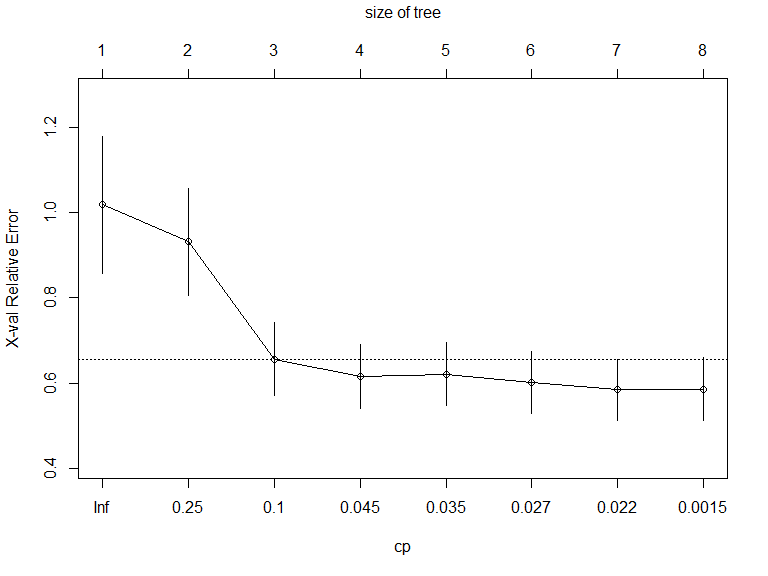
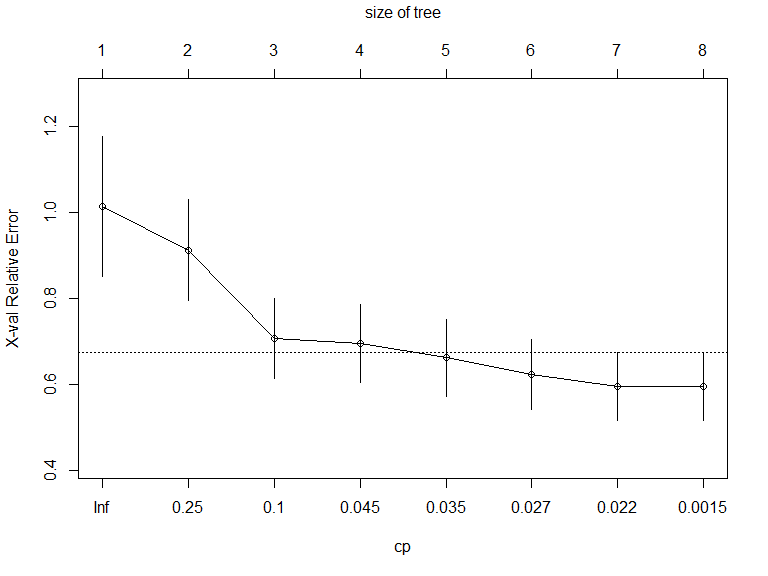
compare models part f

diff --git a/p8106_hw4_jsg2145.md b/p8106_hw4_jsg2145.md
@@ -38,14 +38,14 @@ tree1$cptable
 ```
 
     ##           CP nsplit rel error    xerror       xstd
-    ## 1 0.34710828      0 1.0000000 1.0178608 0.16102899
-    ## 2 0.18464743      1 0.6528917 0.9310388 0.12424032
-    ## 3 0.05931585      2 0.4682443 0.6566275 0.08627521
-    ## 4 0.03475635      3 0.4089284 0.6167942 0.07492180
-    ## 5 0.03460901      4 0.3741721 0.6216878 0.07463907
-    ## 6 0.02156368      5 0.3395631 0.6016489 0.07226998
-    ## 7 0.02146995      6 0.3179994 0.5848702 0.07179699
-    ## 8 0.00010000      7 0.2965295 0.5865594 0.07403974
+    ## 1 0.34710828      0 1.0000000 1.0143403 0.16245353
+    ## 2 0.18464743      1 0.6528917 0.9125905 0.11791692
+    ## 3 0.05931585      2 0.4682443 0.7062024 0.09314601
+    ## 4 0.03475635      3 0.4089284 0.6953459 0.09154332
+    ## 5 0.03460901      4 0.3741721 0.6624257 0.08981879
+    ## 6 0.02156368      5 0.3395631 0.6242826 0.08125728
+    ## 7 0.02146995      6 0.3179994 0.5961802 0.07868036
+    ## 8 0.00010000      7 0.2965295 0.5960248 0.07900179
 
 ``` r
 cpTable <- printcp(tree1)
@@ -63,14 +63,14 @@ cpTable <- printcp(tree1)
     ## n= 97 
     ## 
     ##         CP nsplit rel error  xerror     xstd
-    ## 1 0.347108      0   1.00000 1.01786 0.161029
-    ## 2 0.184647      1   0.65289 0.93104 0.124240
-    ## 3 0.059316      2   0.46824 0.65663 0.086275
-    ## 4 0.034756      3   0.40893 0.61679 0.074922
-    ## 5 0.034609      4   0.37417 0.62169 0.074639
-    ## 6 0.021564      5   0.33956 0.60165 0.072270
-    ## 7 0.021470      6   0.31800 0.58487 0.071797
-    ## 8 0.000100      7   0.29653 0.58656 0.074040
+    ## 1 0.347108      0   1.00000 1.01434 0.162454
+    ## 2 0.184647      1   0.65289 0.91259 0.117917
+    ## 3 0.059316      2   0.46824 0.70620 0.093146
+    ## 4 0.034756      3   0.40893 0.69535 0.091543
+    ## 5 0.034609      4   0.37417 0.66243 0.089819
+    ## 6 0.021564      5   0.33956 0.62428 0.081257
+    ## 7 0.021470      6   0.31800 0.59618 0.078680
+    ## 8 0.000100      7   0.29653 0.59602 0.079002
 
 ``` r
 plotcp(tree1)
@@ -330,3 +330,62 @@ summary(gbm_fit$finalModel, las = 2, cBars = 19, cex.names = 0.6)
     ## age         age  4.381118
     ## lbph       lbph  2.419184
     ## gleason gleason  1.494802
+
+## Part f
+
+``` r
+resamp2 = resamples(list(minErr = tree_caret_cv, 
+                         min_1se = tree_caret_1se,
+                         randomForest = randfor_fit,
+                         boosting = gbm_fit))
+summary(resamp2)
+```
+
+    ## 
+    ## Call:
+    ## summary.resamples(object = resamp2)
+    ## 
+    ## Models: minErr, min_1se, randomForest, boosting 
+    ## Number of resamples: 50 
+    ## 
+    ## MAE 
+    ##                   Min.   1st Qu.    Median      Mean   3rd Qu.      Max.
+    ## minErr       0.4519217 0.6201402 0.7089144 0.7244433 0.8258116 1.0108066
+    ## min_1se      0.4712642 0.6527670 0.7582356 0.7366359 0.8261562 1.0108066
+    ## randomForest 0.3586373 0.5110769 0.6101846 0.6202786 0.6995581 0.9570076
+    ## boosting     0.3662583 0.5171184 0.6064738 0.6124641 0.7035913 0.9653459
+    ##              NA's
+    ## minErr          0
+    ## min_1se         0
+    ## randomForest    0
+    ## boosting        0
+    ## 
+    ## RMSE 
+    ##                   Min.   1st Qu.    Median      Mean   3rd Qu.     Max.
+    ## minErr       0.5366273 0.7021520 0.8576688 0.8494137 0.9487340 1.171649
+    ## min_1se      0.5739553 0.7572611 0.8939170 0.8716841 0.9600888 1.165925
+    ## randomForest 0.5098127 0.6130050 0.7267068 0.7512219 0.8499004 1.118397
+    ## boosting     0.4278317 0.6470290 0.7257828 0.7483030 0.8626489 1.051423
+    ##              NA's
+    ## minErr          0
+    ## min_1se         0
+    ## randomForest    0
+    ## boosting        0
+    ## 
+    ## Rsquared 
+    ##                      Min.   1st Qu.    Median      Mean   3rd Qu.
+    ## minErr       1.444536e-05 0.3509990 0.4734469 0.4871524 0.6473874
+    ## min_1se      2.321338e-02 0.3337917 0.4426040 0.4561976 0.6124944
+    ## randomForest 3.496955e-01 0.5102101 0.5926669 0.6082333 0.6851048
+    ## boosting     3.563333e-01 0.4902781 0.6031274 0.6184048 0.7532405
+    ##                   Max. NA's
+    ## minErr       0.8345701    0
+    ## min_1se      0.8016926    0
+    ## randomForest 0.8995859    0
+    ## boosting     0.9214752    0
+
+``` r
+bwplot(resamp2, metric = "RMSE")
+```
+
+<img src="p8106_hw4_jsg2145_files/figure-gfm/unnamed-chunk-7-1.png" width="90%" />
